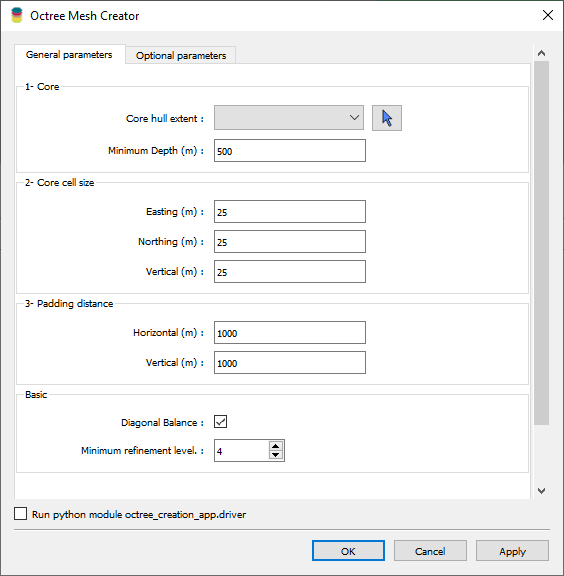
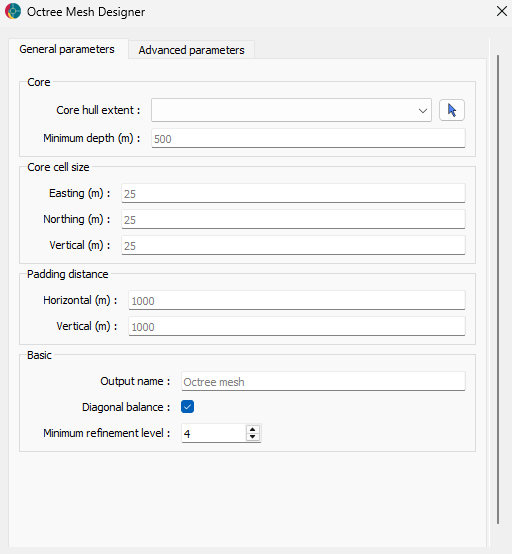
update docs

diff --git a/docs/source/block_model.rst b/docs/source/block_model.rst
@@ -9,7 +9,7 @@ Block Model Creation
 
 The ``Block Model`` module has been developed as a user-interface for the creation of regular (Tensor) BlockModel objects using the `discretize <https://discretize.simpeg.xyz/en/main/>`_ package.
 
-# .. figure:: /images/octree_grid.png
-#    :width: 800
+.. .. figure:: /images/octree_grid.png
+..    :width: 800
 
 An Block Model grid is a discretization of a 3D volume into a set of rectangular cells.

diff --git a/docs/source/block_model_to_octree.rst b/docs/source/block_model_to_octree.rst
@@ -9,8 +9,8 @@ Block Model to Octree
 
 The ``Block model to Octree`` module has been developed as a user-interface for the conversion between regular (Tensor) BlockModel objects to Octree, using the `discretize <https://discretize.simpeg.xyz/en/main/>`_ package.
 
-# .. figure:: /images/octree_grid.png
-#    :width: 800
+.. .. figure:: /images/octree_grid.png
+..    :width: 800
 
 An octree mesh is a discretization of a 3D volume into a set of rectangular cells. The cells are defined by a tree
 structure, where each node has 8 children.